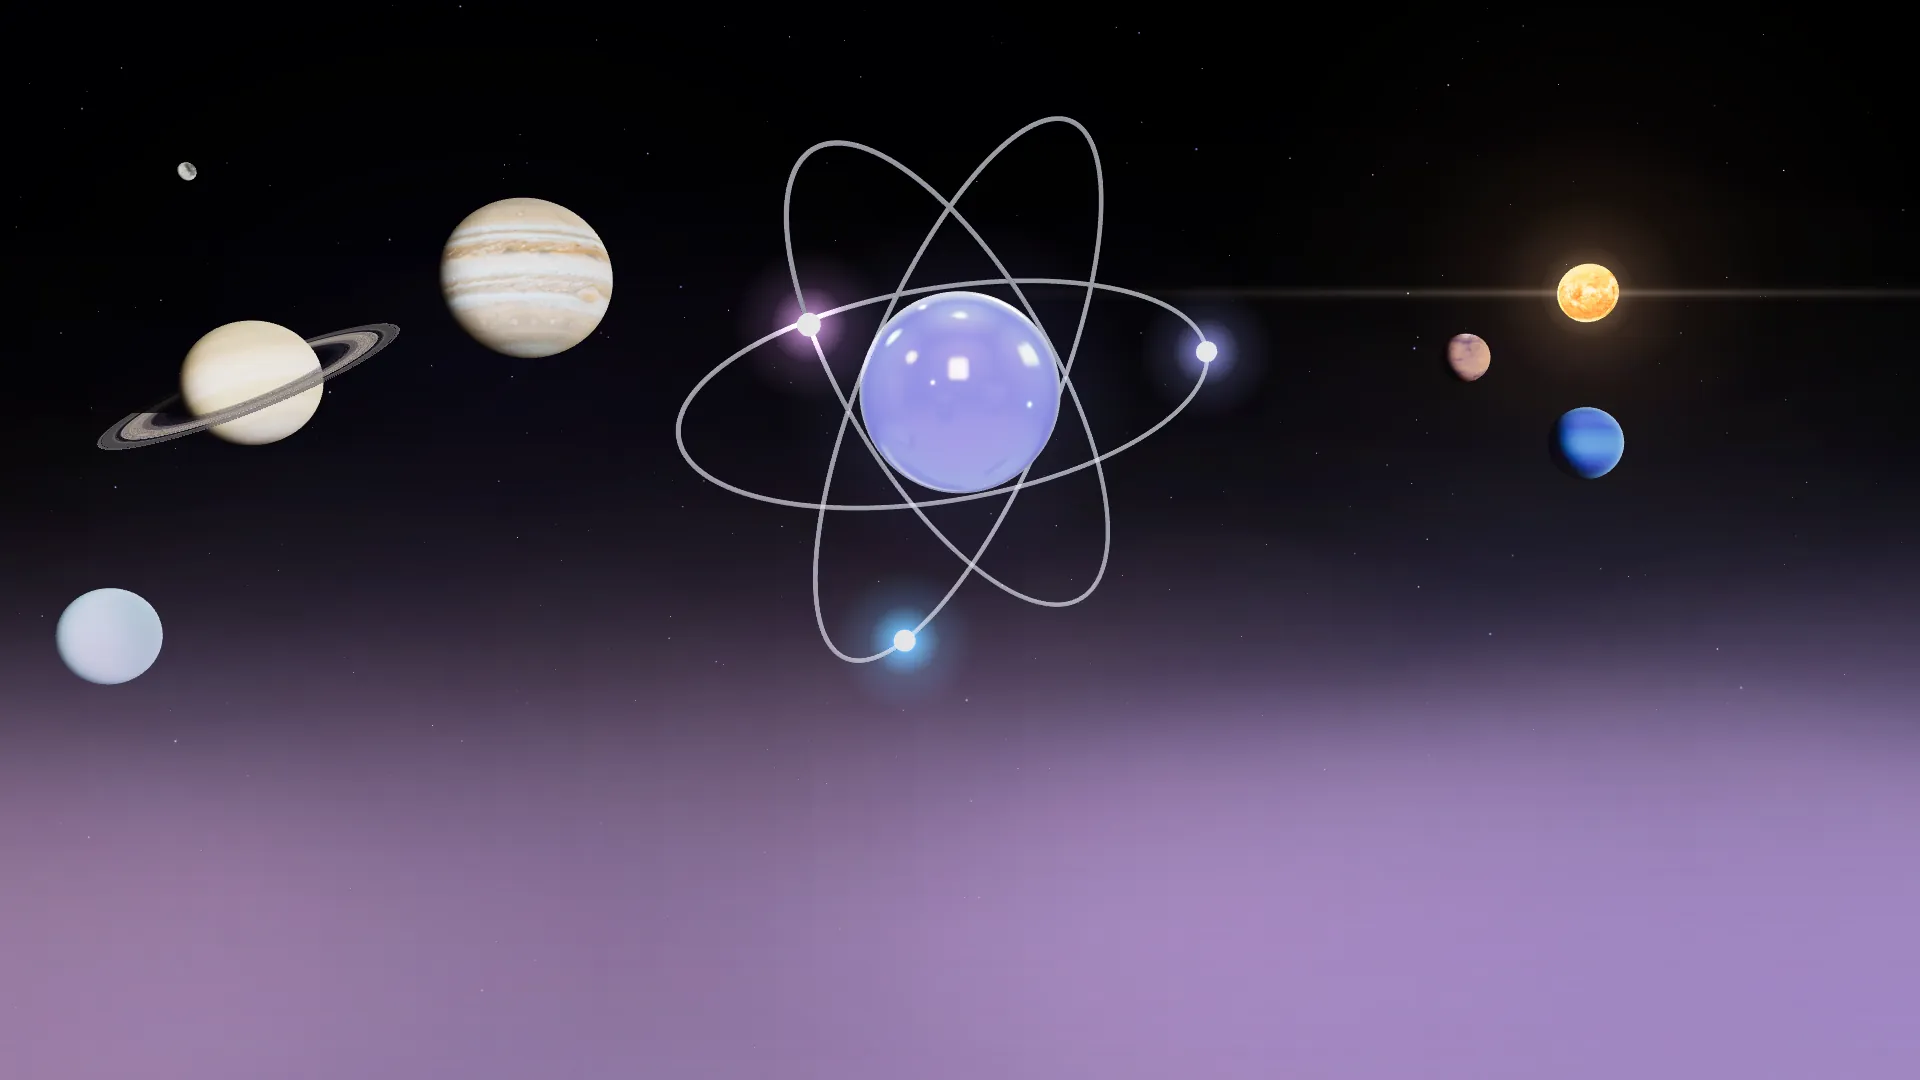
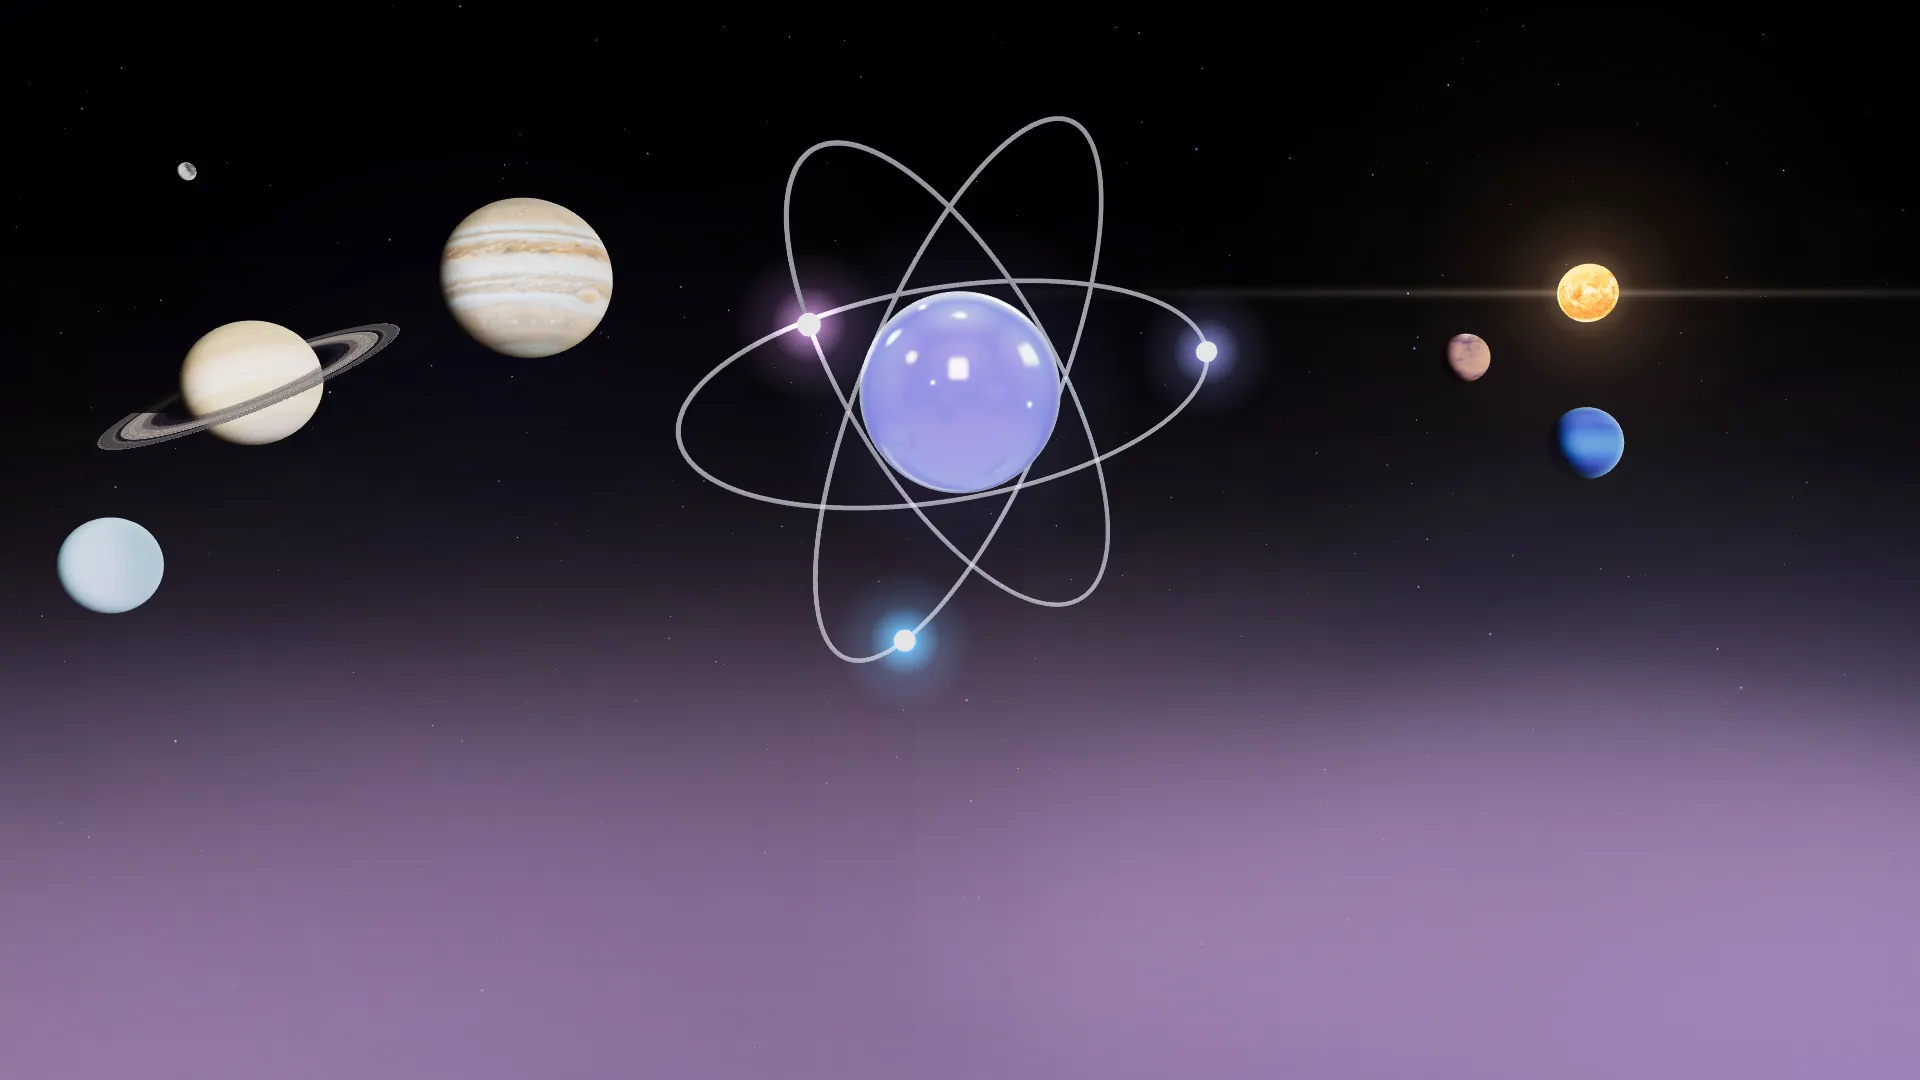
feat: wider hero card, Uranus clear of the headline
- Hero card: width scales with the screen (27rem to 35rem, 31vw),
  560px on a 1920px screen, never closer than ~90px to the headline.
- Uranus moved between Saturn's ring and the headline kicker.
- Desktop poster recaptured to match the new layout.

Changed region(s): [[0.0312, 0.4583, 0.0938, 0.6417]]

diff --git a/src/components/home/SpaceScene.tsx b/src/components/home/SpaceScene.tsx
@@ -468,7 +468,7 @@ export function SpaceScene() {
         moon.position.set(narrow ? -6 : -46, narrow ? 27 : 26, narrow ? -80 : -90);
         jupiter.position.set(narrow ? -14 : -41, narrow ? 52 : 31, narrow ? -200 : -150);
         mars.position.set(narrow ? -10 : 24, narrow ? 14 : 12, -70);
-        uranus.position.set(-60, -2, -110);
+        uranus.position.set(-60, 3, -110); // left, between Saturn's ring and the headline's kicker
         uranus.visible = !narrow; // no room on phones
         // Shade from the sun's direction but from in front of the planets, so they read three-quarter
         // lit (as in space photography) instead of showing us their night side.

diff --git a/src/app/home.css b/src/app/home.css
@@ -69,7 +69,7 @@
 }
 @keyframes shimmer { to { background-position: -200% 0; } }
 
-.hero-right { display: flex; flex-direction: column; align-items: flex-end; gap: 18px; width: min(27rem, 100%); animation: fade-up 1s 1.4s both; }
+.hero-right { display: flex; flex-direction: column; align-items: flex-end; gap: 18px; width: min(clamp(27rem, 31vw, 35rem), 100%); /* wider on big screens, never into the headline */ animation: fade-up 1s 1.4s both; }
 /* Glass card for the pitch: a darker frost so text stays crisp over stars and fog. */
 .hero-card {
   width: 100%; display: flex; flex-direction: column; gap: 14px; padding: 24px 24px 20px; border-radius: 26px;
